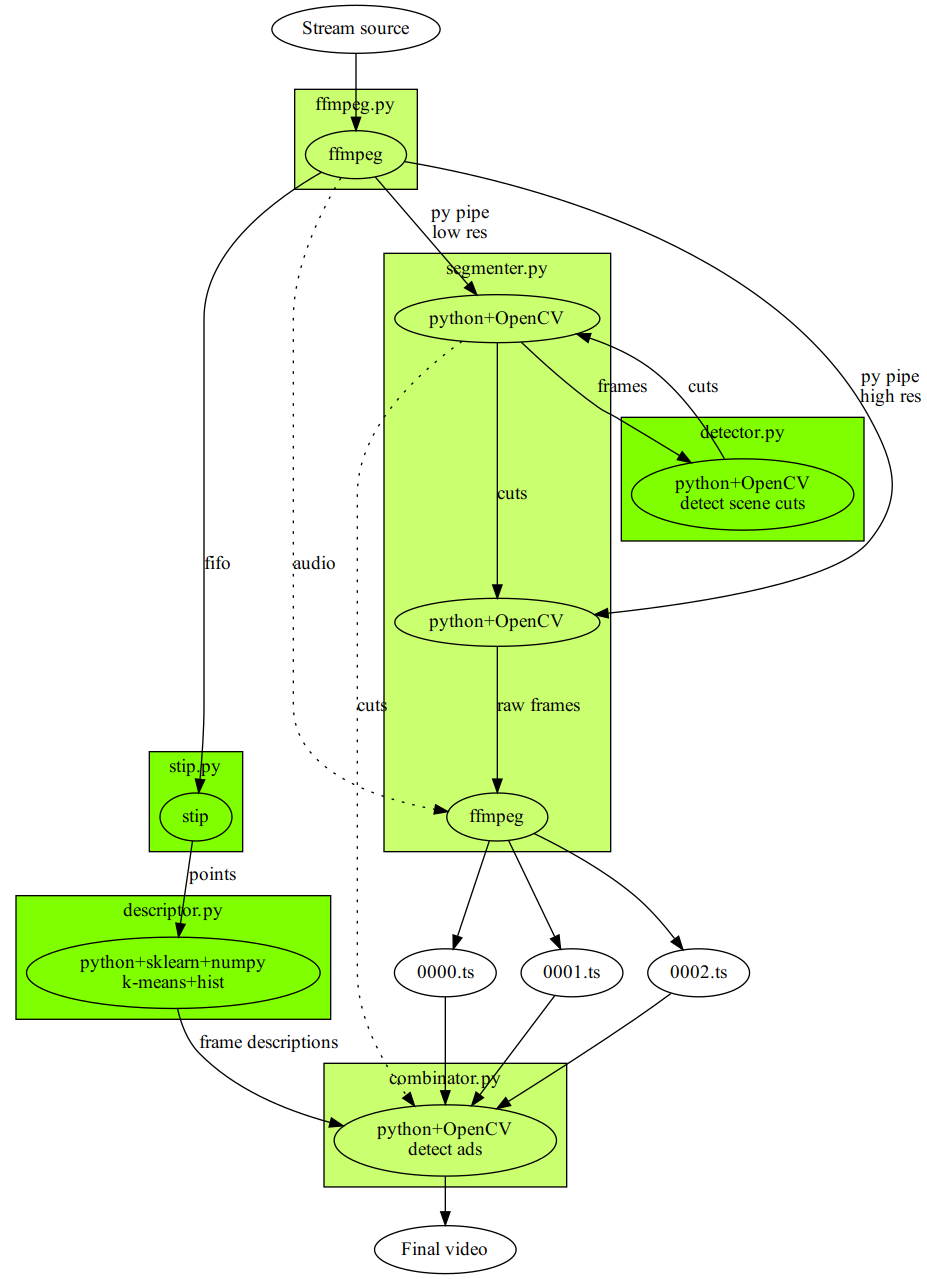
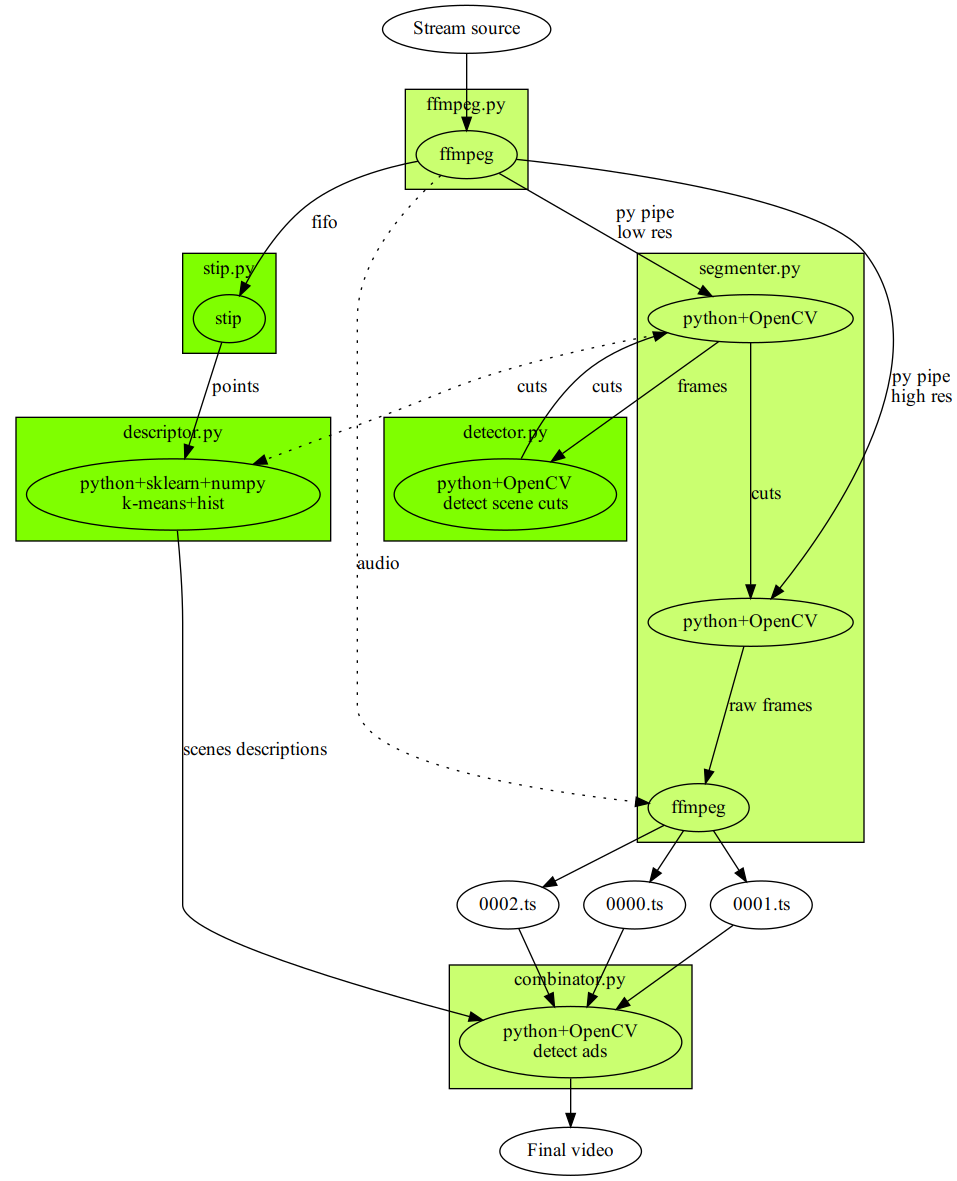
KT2 or something like this

diff --git a/combinator.py b/combinator.py
@@ -6,68 +6,46 @@ class Combinator(object):
     def __init__(self, chunk_format, output_file):
         self.chunk_format = chunk_format
         self.output = open(output_file, 'wb')
+
         self.debug_file = open('debug.csv', 'w')
 
         self.is_ads = False
         self.chunk_id = 0
 
-        self.window = 15 # frames
-
-        self.cuts = set()
         self.start_descs = dict()
         self.end_descs = dict()
-        self.cache = dict()
         self.processed = -1
 
-    def cut_callback(self, t, is_cut):
-        self.processed = t
-        # print('comb cut', frame2time(t, 24))
-        if is_cut:
-            self.cuts.add(t)
+    def is_ad_start(self, desc):
+        # I'm really sorry. I haven't slept for more than 30 hours, that's best I can do
+        if self.chunk_id in [68, 316, 518, 617, 789]:
+            return True
+        return False
 
-    def frame_callback(self, t, descr):
-        while t + self.window + 1 > self.processed:
-            time.sleep(0.1)
+    def is_ad_end(self, desc):
+        # I'm really sorry. I haven't slept for more than 30 hours, that's best I can do
+        if self.chunk_id in [174, 419, 568, 721, 874]:
+            return True
+        return False
 
-        # print('comb frame', frame2time(t, 24))
+    def scene_callback(self, t, descr):
+        print('Comb', t, descr)
 
-        self.cache[t] = descr
+        if not self.is_ads and self.is_ad_start(descr):
+            print('Ads start', frame2time(t, 24))
+            self.is_ads = True
 
-        while len(self.cuts) and min(self.cuts) <= t - self.window + 1:
-            cur_cut = min(self.cuts)
-            self.cuts.remove(cur_cut)
+        if self.is_ads and self.is_ad_end(descr):
+            print('Ads end', frame2time(t, 24))
+            self.is_ads = False
 
-            start_desc = np.array([])
-            for i in range(0, self.window):
-                if cur_cut + i in self.cache:
-                    start_desc = np.hstack((start_desc, self.cache[cur_cut + i]))
-                else:
-                    start_desc = np.hstack((start_desc, np.zeros(len(descr))))
-            # self.start_descs[cur_cut] = start_desc
+        if not self.is_ads:
+            with open(self.chunk_format % self.chunk_id, 'rb') as chunk:
+                self.output.write(chunk.read())
 
-            end_desc = np.array([])
-            for i in range(-self.window, 0):
-                if cur_cut + i in self.cache:
-                    end_desc = np.hstack((end_desc, self.cache[cur_cut + i]))
-                else:
-                    end_desc = np.hstack((end_desc, np.zeros(len(descr))))
-            # self.end_descs[cur_cut] = end_desc
+        self.debug_file.write('%d,%s\n' % (t, ','.join(str(i) for i in descr)))
 
-            if not self.is_ads and False: # some check if start_desc is start of ads
-                self.is_ads = True
-
-            if self.is_ads and False: # some check if end_desc is end of ads
-                self.is_ads = False
-
-            if not self.is_ads:
-                with open(self.chunk_format % self.chunk_id, 'rb') as chunk:
-                    self.output.write(chunk.read())
-
-            self.debug_file.write('%d,s,%s\n' % (cur_cut, ','.join(str(i) for i in start_desc)))
-            self.debug_file.write('%d,e,%s\n' % (cur_cut, ','.join(str(i) for i in end_desc)))
-
-            self.chunk_id += 1
-            self.cache = {k:v for (k,v) in self.cache.items() if k >= cur_cut}
+        self.chunk_id += 1
 
 def frame2time(fr, fps):
     s = fr / fps

diff --git a/descriptor.py b/descriptor.py
@@ -4,40 +4,55 @@ import pickle
 import sys
 
 class Descriptor(object):
-    def __init__(self, frame_cb, wm=None, rm=None, kc=None):
-        self.frame_cb = frame_cb
-        self.wm = self.rm = None
+    def __init__(self, scene_cb, wm=None, rm=None, kc=None):
+        self.scene_cb = scene_cb
+        self.wm = None
         self.K = 10
+        self.cuts = set()
+        self.processed = -1
+        self.points = None
+
         if wm is not None:
             self.wm = wm
             self.kc = kc
-            self.processed = 0
-            self.points = None
             self.kmeans = None
         if rm is not None:
             self.kmeans = pickle.load(open(rm, 'rb'))
 
+    def cut_callback(self, t, is_cut):
+        self.processed = t
+
+        if is_cut:
+            print('Descriptor cut', t)
+            self.cuts.add(t)
+
     def callback(self, t, points):
+        while t > self.processed:
+            time.sleep(0.1)
+
         print('Descr', t, len(points))
-        if self.wm is not None:
-            # do not stack every point
-            for pt in points:
-                if self.points is None:
-                    self.points = np.array(pt)
-                else:
-                    self.points = np.vstack((self.points, np.array(pt)))
-                self.processed += 1
-                if self.processed % 10 == 0:
-                    print("Precalc: about %.2f%% done" % (100 * self.processed / self.kc))
-                if self.processed >= self.kc:
-                    kmeans = KMeans(n_clusters=self.K).fit(self.points)
-                    pickle.dump(kmeans, open(self.wm, 'wb'))
-                    print('Precalculated and saved k-means.')
-                    print('Now try to run with -rm %s!' % self.wm)
-                    sys.exit(0)
-        if self.kmeans is not None:
-            labels = self.kmeans.predict(points)
-            hist, _ = np.histogram(labels, 10, (-0.5, self.K - 0.5), density=True)
+
+        if self.kmeans is not None and t in self.cuts:
+            self.cuts.remove(t)
+            labels = self.kmeans.predict(self.points)
+            hist, _ = np.histogram(labels, self.K, (-0.5, self.K - 0.5), density=True)
+            self.points = None
             # print(labels)
             # print(hist)
-            self.frame_cb(t, hist)
+            self.scene_cb(t, hist)
+
+        if self.points is None:
+            self.points = np.array(points)
+        else:
+            self.points = np.vstack((self.points, np.array(points)))
+
+        if self.wm is not None:
+            # do not stack every point
+            self.processed += len(points)
+            print("Precalc: about %.2f%% done" % (100 * self.processed / self.kc))
+            if self.processed >= self.kc:
+                kmeans = KMeans(n_clusters=self.K).fit(self.points)
+                pickle.dump(kmeans, open(self.wm, 'wb'))
+                print('Precalculated and saved k-means.')
+                print('Now try to run with -rm %s!' % self.wm)
+                sys.exit(0)

diff --git a/main.py b/main.py
@@ -23,14 +23,14 @@ if __name__ == '__main__':
     if args.wm:
         # TODO: do not segment if we're precalculating clusters
         comb = Combinator(args.c, args.o)
-        segm = Segmenter(cut_cb=comb.cut_callback, save_path=args.c)
-        desc = Descriptor(comb.frame_callback, wm=args.wm, rm=args.rm, kc=args.kc)
+        desc = Descriptor(comb.scene_callback, wm=args.wm, rm=args.rm, kc=args.kc)
+        segm = Segmenter(cut_cb=desc.cut_callback, save_path=args.c)
         stip = STIP(desc.callback)
         ffmpeg = FFMpeg(args.filename, segm.pipe_w_hd, segm.pipe_w_sd, stip.fifo)
     elif args.rm:
         comb = Combinator(args.c, args.o)
-        segm = Segmenter(cut_cb=comb.cut_callback, save_path=args.c)
-        desc = Descriptor(comb.frame_callback, wm=args.wm, rm=args.rm, kc=args.kc)
+        desc = Descriptor(comb.scene_callback, wm=args.wm, rm=args.rm, kc=args.kc)
+        segm = Segmenter(cut_cb=desc.cut_callback, save_path=args.c)
         stip = STIP(desc.callback)
         ffmpeg = FFMpeg(args.filename, segm.pipe_w_hd, segm.pipe_w_sd, stip.fifo)
     else:

diff --git a/segmenter.py b/segmenter.py
@@ -8,7 +8,7 @@ import tempfile
 import detector
 
 class Segmenter(object):
-    def __init__(self, cut_cb=None, save_path=None):
+    def __init__(self, cut_cb, save_path):
         self.pipe_r_hd, self.pipe_w_hd = os.pipe()
         os.set_inheritable(self.pipe_w_hd, True)
 
@@ -71,6 +71,7 @@ class Segmenter(object):
                 time.sleep(0.1)
 
             ret, frame_full_res = cap_hd.read()
+            cv2.putText(frame_full_res, str(chunk_id), (10,20), cv2.FONT_HERSHEY_COMPLEX_SMALL, 1, (0,0,255))
 
             if i in self.cuts:
                 chunk_id += 1
